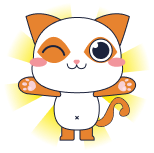
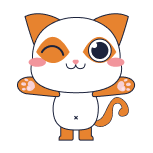
galeria de personajes

diff --git a/client/src/data/characters.js b/client/src/data/characters.js
@@ -1,29 +1,35 @@
 const data = [
-    {
-      id: 1,
-      name: 'Tortuga',
-      image: require('../../assets/characters/tortuga.png'),
-    },
-    {
-      id: 2,
-      name: 'Perro',
-      image: require('../../assets/characters/perro.png'),
-    },
-    {
-      id: 3,
-      name: 'Unicornio',
-      image: require('../../assets/characters/unicornio.png'),
-    },
-    {
-      id: 4,
-      name: 'Cerdo',
-      image: require('../../assets/characters/cerdo.png'),
-    },
-    {
-      id: 5,
-      name: 'Oso',
-      image: require('../../assets/characters/oso.png'),
-    }
-  ];
+  {
+    id: 1,
+    name: "Gato",
+    image: require("../../assets/characters/gato.png"),
+    // image: require("../assets/gato_normal.png"),
+  },
+  {
+    id: 2,
+    name: "Tortuga",
+    image: require("../../assets/characters/tortuga.png"),
+  },
+  {
+    id: 3,
+    name: "Perro",
+    image: require("../../assets/characters/perro.png"),
+  },
+  {
+    id: 4,
+    name: "Unicornio",
+    image: require("../../assets/characters/unicornio.png"),
+  },
+  {
+    id: 5,
+    name: "Cerdo",
+    image: require("../../assets/characters/cerdo.png"),
+  },
+  {
+    id: 6,
+    name: "Oso",
+    image: require("../../assets/characters/oso.png"),
+  },
+];
 
-  export default data;
+export default data;

diff --git a/client/src/screens/homeNavigation/SwapPet.jsx b/client/src/screens/homeNavigation/SwapPet.jsx
@@ -13,6 +13,7 @@ import {
   Alert,
 } from "react-native";
 
+
 import { AntDesign } from "react-native-vector-icons";
 
 import { useNavigation, useRoute } from "@react-navigation/native";
@@ -20,8 +21,9 @@ import { useNavigation, useRoute } from "@react-navigation/native";
 import data from "../../data/characters";
 
 export default function SwapPet() {
+  const route = useRoute();
   const navigation = useNavigation();
-
+  const { nombre } = route.params;
   const [currentImage, setCurrentImage] = useState(data[0].image);
   const [currentName, setCurrentName] = useState(data[0].name);
 
@@ -36,8 +38,12 @@ export default function SwapPet() {
         text: "OK",
         onPress: () =>
           navigation.navigate("Home", {
-            nombre: currentName,
-            imagenOpcional: currentImage,
+            // nombre: currentName == "Gato" ? nombre : currentName,
+            nombre:  nombre ,
+            imagenOpcional:
+              currentName == "Gato"
+                ? require("../assets/cat_rest.gif")
+                : currentImage,
           }),
       },
     ]);
@@ -177,8 +183,8 @@ const styles = StyleSheet.create({
   },
   button: {
     backgroundColor: secundario,
-    paddingVertical:5,
-    
+    paddingVertical: 5,
+
     borderRadius: 10,
   },
   buttonText: {

diff --git a/client/src/screens/homeNavigation/Home.jsx b/client/src/screens/homeNavigation/Home.jsx
@@ -49,7 +49,7 @@ const [cargas, setCargas] = useState(cantidad/2.76); // el 2.76 es lo que se tie
       <View style={styles.containerStart}>
         <Text style={styles.textName}> {nombre} </Text>
       </View>
-      <TouchableOpacity style={styles.buttonPersonaje} onPress={()=>navigation.navigate("SwapPet")}>
+      <TouchableOpacity style={styles.buttonPersonaje} onPress={()=>navigation.navigate("SwapPet", {nombre})}>
           <Image source={require("../../../assets/personajes.png")} />
         </TouchableOpacity>
 
